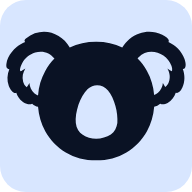
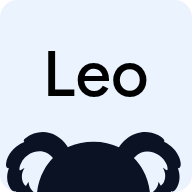
Обновить иконку вкладки: Leo и уши коалы.
Новый кадр 32 на 32 из макета, фон #ebf3ff. Ссылка с новой версией, чтобы браузер взял свежий файл.

diff --git a/src/app/layout.tsx b/src/app/layout.tsx
@@ -24,12 +24,12 @@ export const metadata: Metadata = {
     "Подбор проверенных реабилитационных центров для лечения и восстановления при зависимостях.",
   icons: {
     icon: [
-      { url: `${asset("/favicon.ico")}?v=4`, type: "image/x-icon" },
-      { url: `${asset("/tab-icon.png")}?v=4`, type: "image/png", sizes: "32x32" },
-      { url: `${asset("/tab-icon-192.png")}?v=4`, type: "image/png", sizes: "192x192" },
+      { url: `${asset("/favicon.ico")}?v=5`, type: "image/x-icon" },
+      { url: `${asset("/tab-icon.png")}?v=5`, type: "image/png", sizes: "32x32" },
+      { url: `${asset("/tab-icon-192.png")}?v=5`, type: "image/png", sizes: "192x192" },
     ],
-    apple: [{ url: `${asset("/apple-icon.png")}?v=4`, sizes: "180x180", type: "image/png" }],
-    shortcut: `${asset("/favicon.ico")}?v=4`,
+    apple: [{ url: `${asset("/apple-icon.png")}?v=5`, sizes: "180x180", type: "image/png" }],
+    shortcut: `${asset("/favicon.ico")}?v=5`,
   },
 };
 
